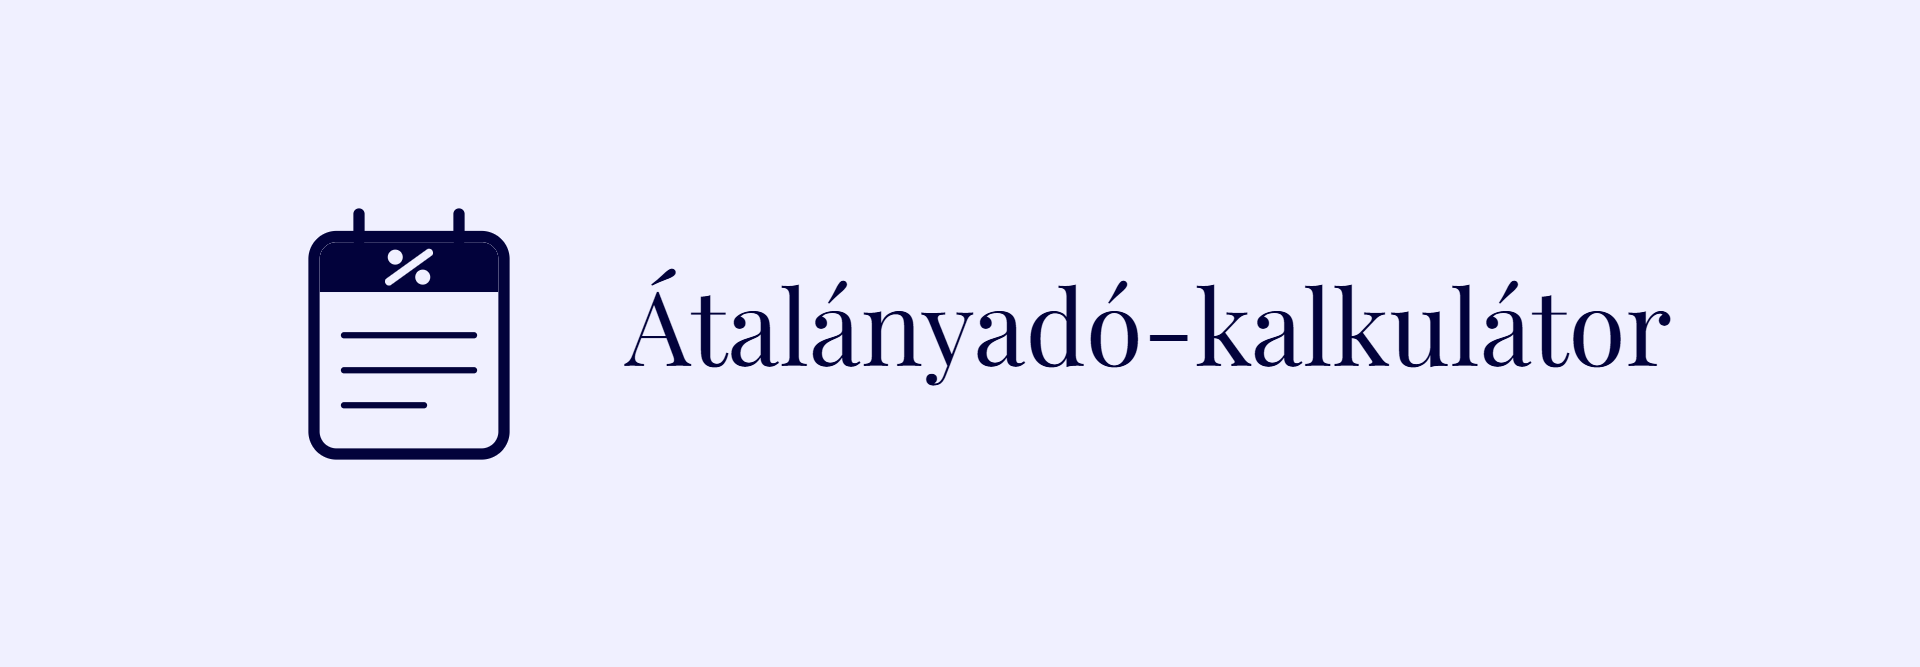
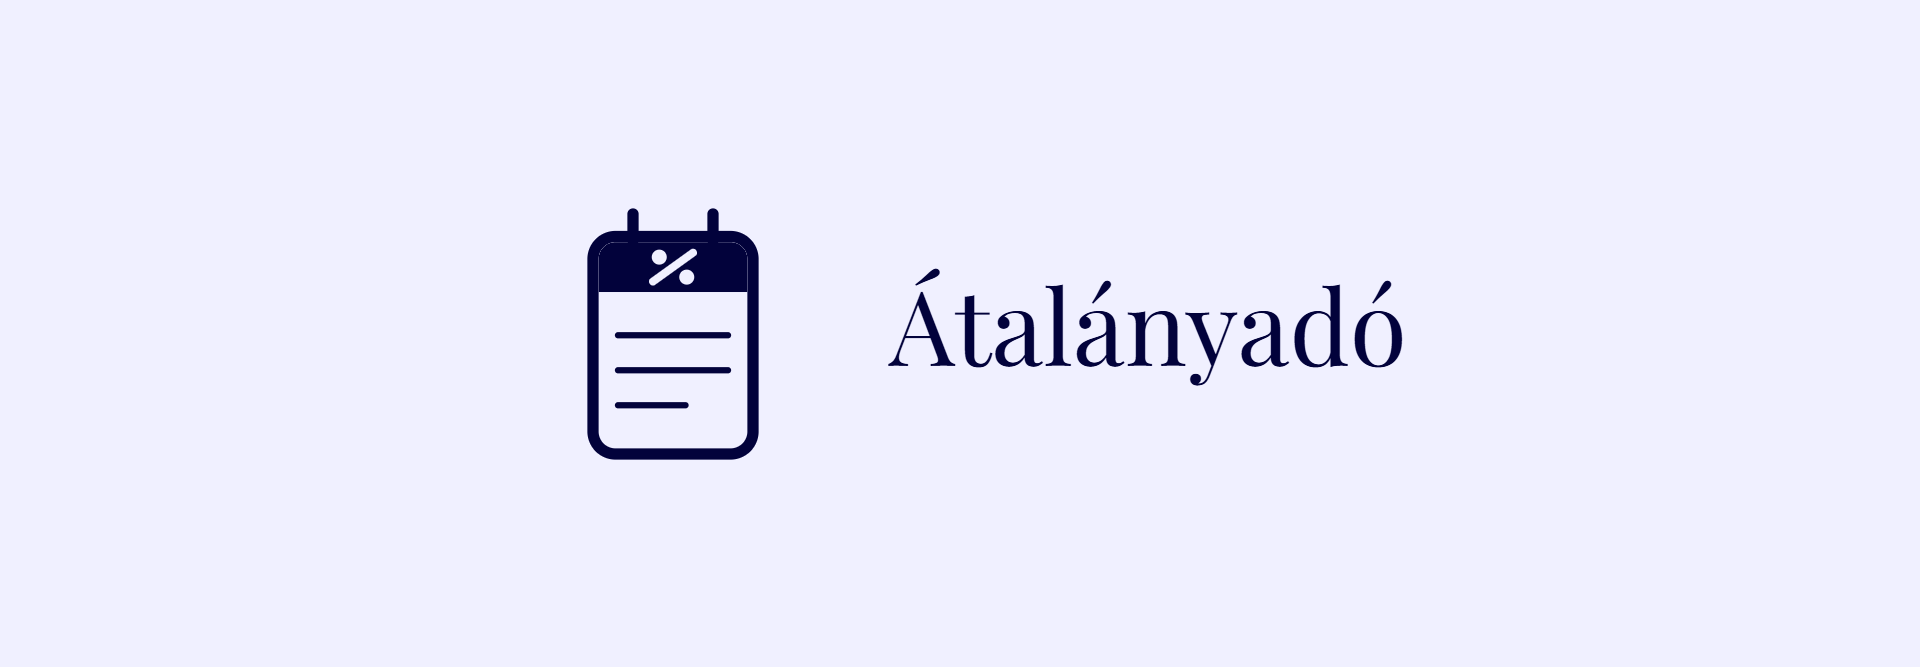
Átalányadó-ikon: azonos lábnyom a bérkalkulátoréval
A bejegyzéslistában az átalányadós kiemelt kép kilógott a kártyából, és
nagyobbnak is látszott a másiknál. A kártya a 1920x667-es bannerből csak a
középső 1202 px-et mutatja: a bérkalkulátor tartalma 527..1465 között van,
bőven belül, az átalányadósé viszont 308..1669 volt, tehát mindkét szélén
levágódott.

A betű- és ikonméret eddig is azonos volt (320 px-es ikon, 104 px-es
Playfair); a különbség két másik dologból jött. A naptár teste szélesebb
volt a számológépnél, és a felirat nyolc karakterrel hosszabb.

A naptár teste ezért `x=128 w=256` lett, pontosan akkora, mint a
számológépé: a két ikon lábnyoma most pixelre azonos, `x: 119…393`,
`y: 55…457`. A sziluettet továbbra is a felül kilógó két fűzőkarika és a
teljes szélességű fejlécsáv különbözteti meg, nem a mérete. A banner
felirata „Átalányadó-kalkulátor"-ról „Átalányadó"-ra rövidült.

Az új tartalom 587..1401 között van, azaz elfér a látható sávban.

A LEIRAT megkapta a mérhető szabályt: az ikon és a név együtt ne legyen
szélesebb ~1150 px-nél, ami nagyjából 17 karakteres névhatárt jelent.

Changed region(s): [[0.1562, 0.2999, 0.875, 0.6897], [0.4688, 0.3898, 0.5, 0.4198]]

diff --git a/ikonok/index.html b/ikonok/index.html
@@ -143,7 +143,9 @@
   /* Új ikon felvétele: tedd az SVG-t az ../assets/ikonok/ mappába, és írj ide egy sort. */
   var IKONOK = [
     { fajl: 'ber-kalkulator.svg', nev: 'Bérkalkulátor', kimenet: 'ber-kalkulator-1920x667.png' },
-    { fajl: 'atalanyado-kalkulator.svg', nev: 'Átalányadó-kalkulátor', kimenet: 'atalanyado-kalkulator-1920x667.png' }
+    /* A név rövid: a bejegyzéslistában a bannerből csak a középső 1202px látszik
+       (a kártya levágja a széleit), és a hosszabb felirat kilógott belőle. */
+    { fajl: 'atalanyado-kalkulator.svg', nev: 'Átalányadó', kimenet: 'atalanyado-kalkulator-1920x667.png' }
   ];
 
   var SZELESSEG = 1920;

diff --git a/ikonok/LEIRAT.md b/ikonok/LEIRAT.md
@@ -106,21 +106,46 @@ Naptár, mert ez a kalkulátor az egész évről szól. A rácsa:
 
 | Elem | Koordináták | Vonal |
 |---|---|---|
-| Fűzőkarikák | `x=176` és `x=336`, `y=64…106` | kontúr, `stroke-width: 18`, kerek végződés |
-| A test | `x=104 y=100 w=304 h=348 rx=36` | kontúr, `stroke-width: 18` |
+| Fűzőkarikák | `x=192` és `x=320`, `y=64…106` | kontúr, `stroke-width: 18`, kerek végződés |
+| A test | `x=128 y=100 w=256 h=348 rx=36` | kontúr, `stroke-width: 18` |
 | A fejléc | a test belső szélességében, `y=109…189`, felül `rx=27` | tömör, benne kimaszkolva a „%" |
-| Sorok | `x=152…360`, `y=258/314/370` (az utolsó rövidebb) | kontúr, `stroke-width: 10` |
+| Sorok | `x=168…344`, `y=258/314/370` (az utolsó rövidebb) | kontúr, `stroke-width: 10` |
 
-Kiterjedése `x: 95…417`, `y: 55…457` — **szélesebb, mint a bérkalkulátoré, de pontosan
-ugyanolyan magas**. Ez a helyes: a magasság a közös mérték, a szélesség a formától függ.
+Kiterjedése `x: 119…393`, `y: 55…457` — **pixelre ugyanaz a lábnyom, mint a bérkalkulátoré**.
+A test szélessége szándékosan egyezik a számológépével.
 
-**Amiért fekvőbb és karikás:** a bérkalkulátor is álló, lekerekített téglalap sötét sávval a
-tetején. Ha ez is az lenne, kártyaméretben összefolyna vele. A felül kilógó két karika és a
-teljes szélességű fejlécsáv első pillantásra megkülönbözteti a kettőt.
+**Amiért mégsem folyik össze a kettő:** a felül kilógó két fűzőkarika és a teljes szélességű,
+tömör fejlécsáv. A megkülönböztetés a sziluettből jön, nem a méretből — méretben épp hogy
+egyezniük kell.
+
+**Amiért nem szélesebb, pedig lehetne:** a bejegyzéslistában a kártya a bannerből csak a
+középső **1202 px-et** mutatja (a széleit levágja). A szélesebb ikon és a hosszabb felirat
+együtt kilógott ebből, és az ikon nagyobbnak is látszott a másiknál. Lásd a következő pontot.
 
 **Foglalt jelek:** „Ft" a bérkalkulátoré, „%" az átalányadóé. Új ikonhoz olyan jelet válassz,
 ami még nincs használatban — az áfakalkulátornak például a számla vagy blokk formája ad
 elegendő karaktert, nem kell hozzá a „%".
+
+### A név hossza számít
+
+A bejegyzéslistában a kártya a **1920×667-es bannerből csak a középső 1202 px-et mutatja**,
+a széleit levágja (`overflow: hidden`, a kép szélesebbre skálázódik a keretnél). Ami ezen
+kívül esik, egyszerűen eltűnik — és a kilógó felirat azt a benyomást kelti, hogy az ikon
+nagyobb a többinél.
+
+Mérhető szabály: **az ikon és a név együtt ne legyen szélesebb ~1150 px-nél.** Az `IKONOK`
+tömb `nev` mezőjébe ezért rövid címke való, nem a kalkulátor teljes neve:
+
+| Név | A tartalom szélessége | Elfér? |
+|---|---|---|
+| „Bérkalkulátor" | 939 px | igen |
+| „Átalányadó" | 815 px | igen |
+| „Átalányadó-kalkulátor" | 1361 px | **nem**, mindkét szélén levágódik |
+
+Nagyjából **50 px karakterenként** a 104 px-es Playfairrel, plusz ~300 px az ikonra és a
+térközre. Kb. 17 karakternél hosszabb név már nem fér el. Ellenőrizni a legegyszerűbben a
+kiírt PNG festékdobozának megmérésével lehet: a tartalomnak az `x: 366…1567` sávon belül
+kell maradnia.
 
 ### Miért nincs szöveg az SVG-ben
 

diff --git a/README.md b/README.md
@@ -255,6 +255,11 @@ használd.
 semmi átmenet, második szín nélkül. A vonalvastagságot úgy válaszd, hogy a kártyaméretű,
 kb. 62 px-es változat se essen szét.
 
+**A név legyen rövid.** A bejegyzéslistában a kártya a bannerből csak a középső 1202 px-et
+mutatja, a széleit levágja — a hosszabb felirat kilóg belőle, és az ikont is nagyobbnak
+mutatja a többinél. Ezért „Átalányadó" a felirat, nem „Átalányadó-kalkulátor". A pontos
+számokat lásd: [`ikonok/LEIRAT.md`](ikonok/LEIRAT.md).
+
 ## Ellenőrzés
 
 Mindkét motorhoz tartozik egy ellenőrző lap; megnyitáskor lefutnak, és a lap tetején látszik,
